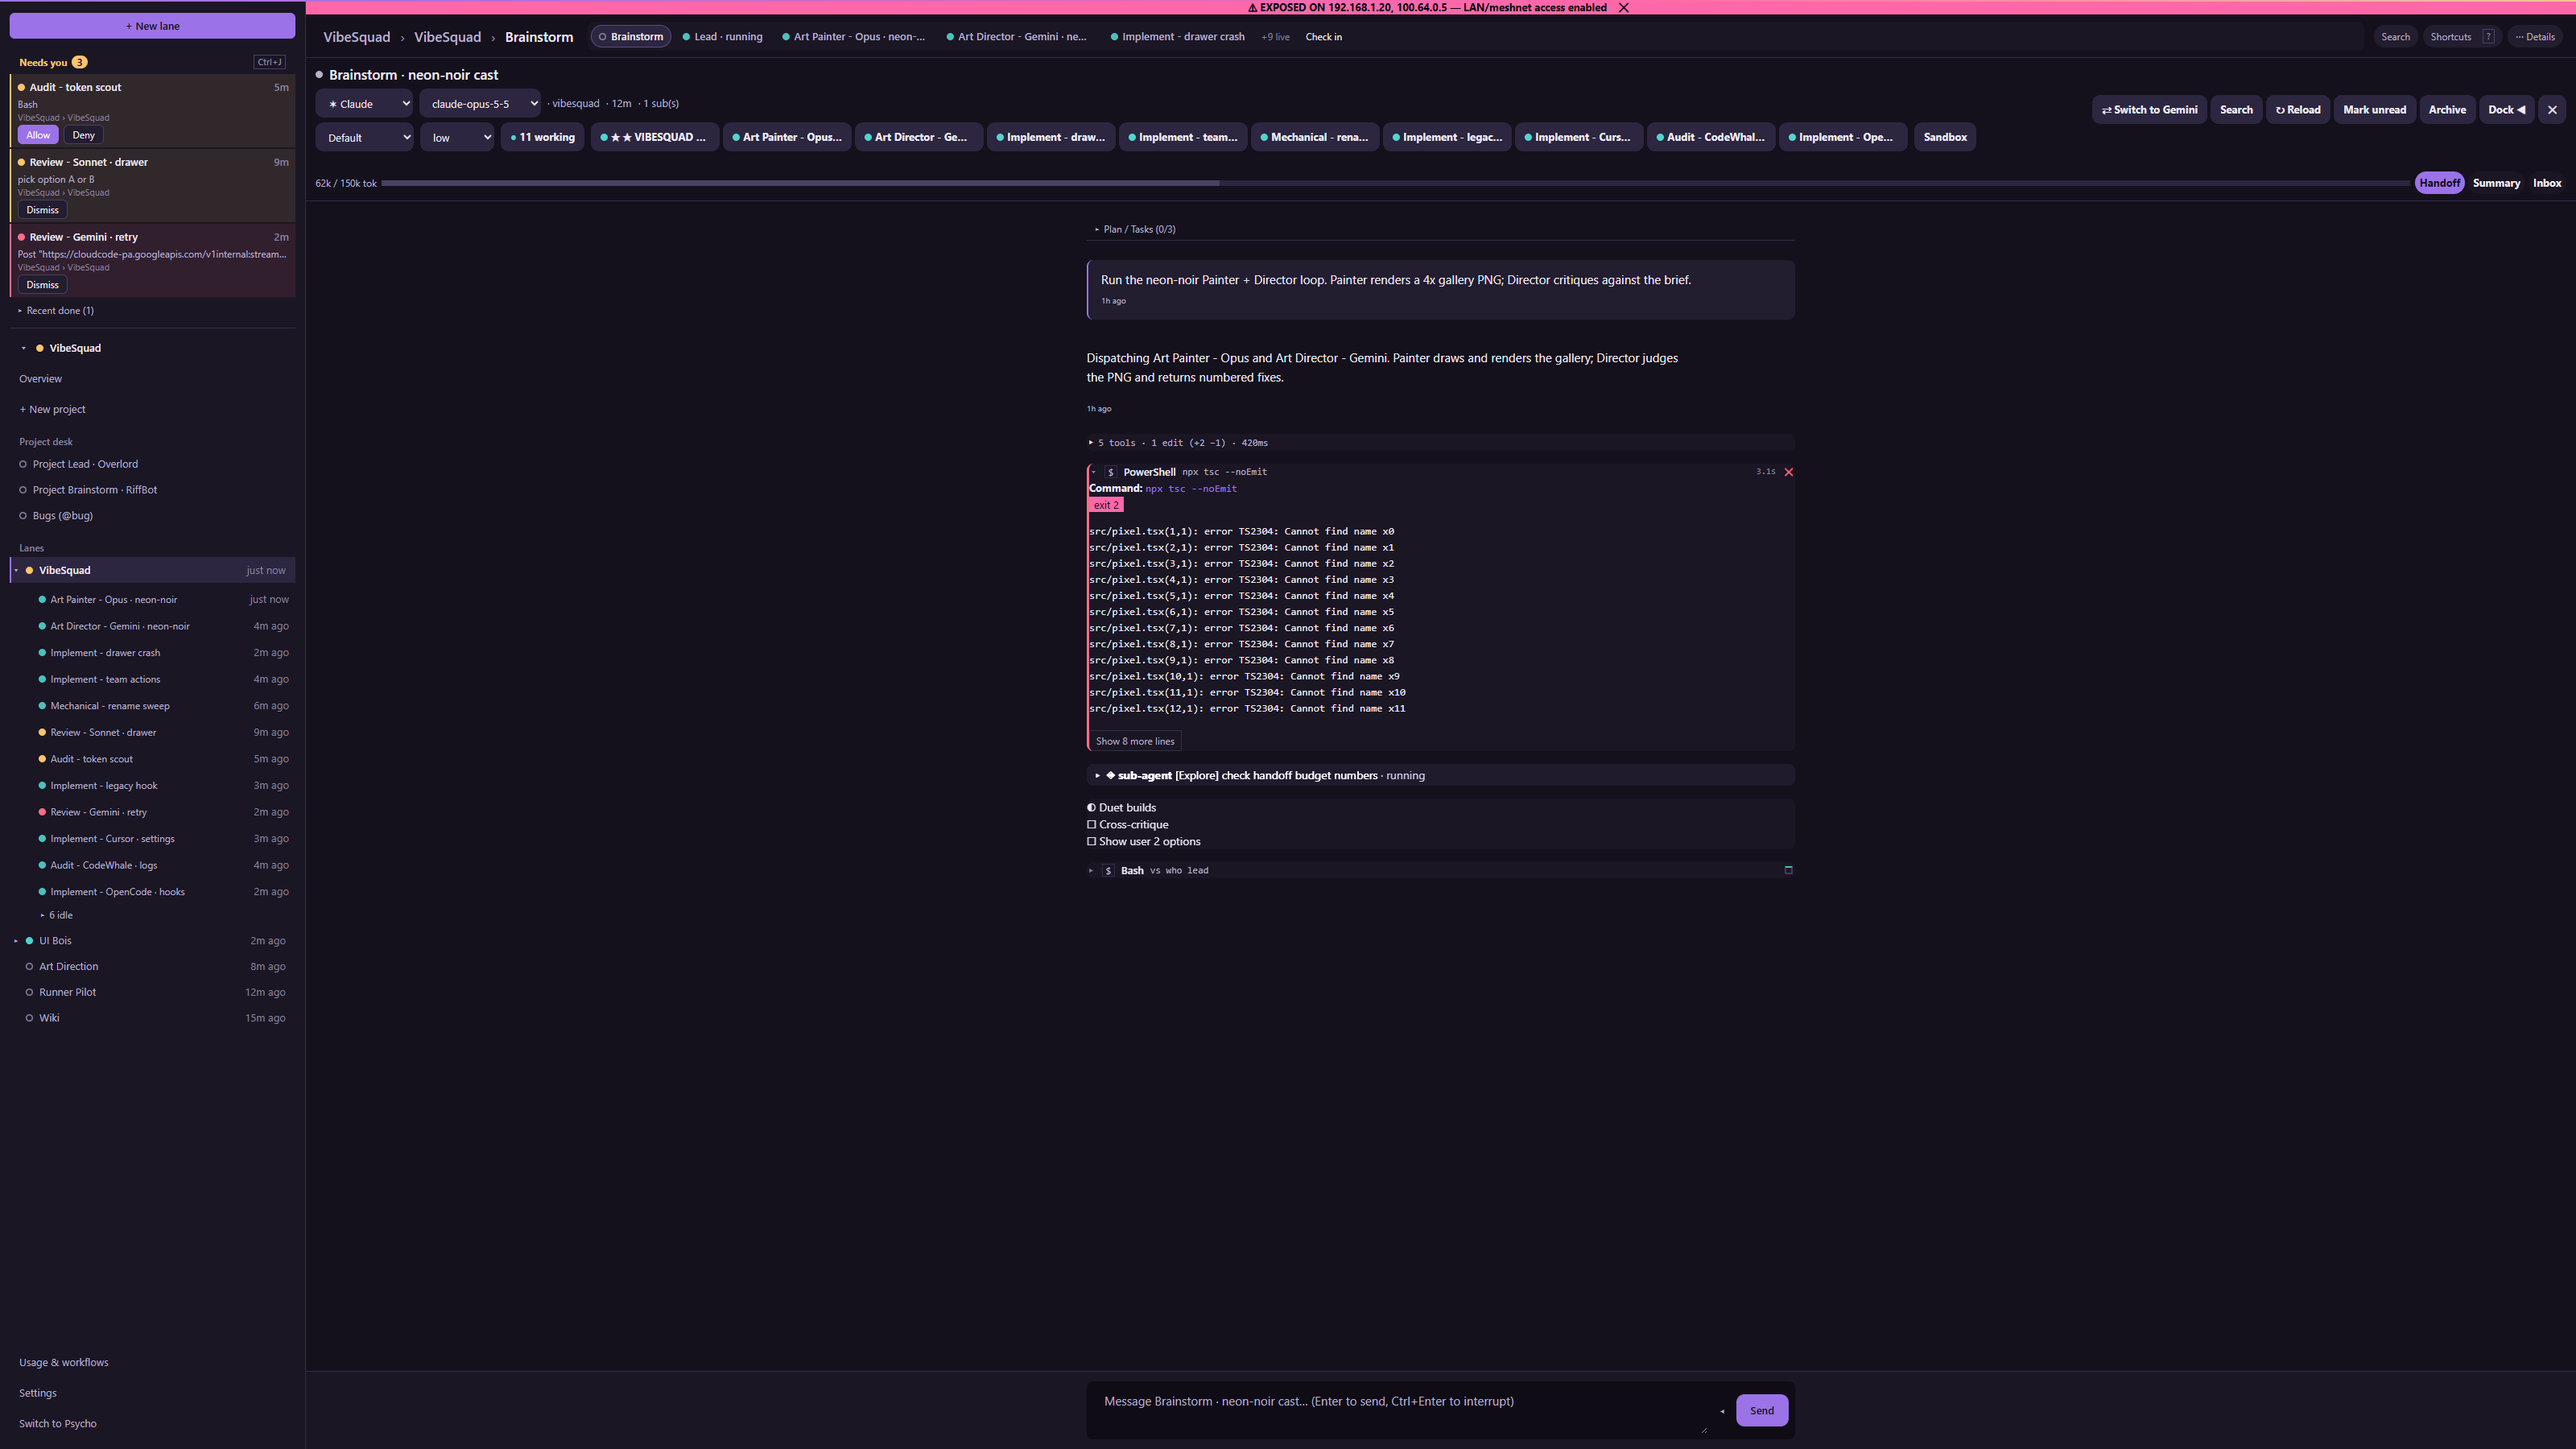
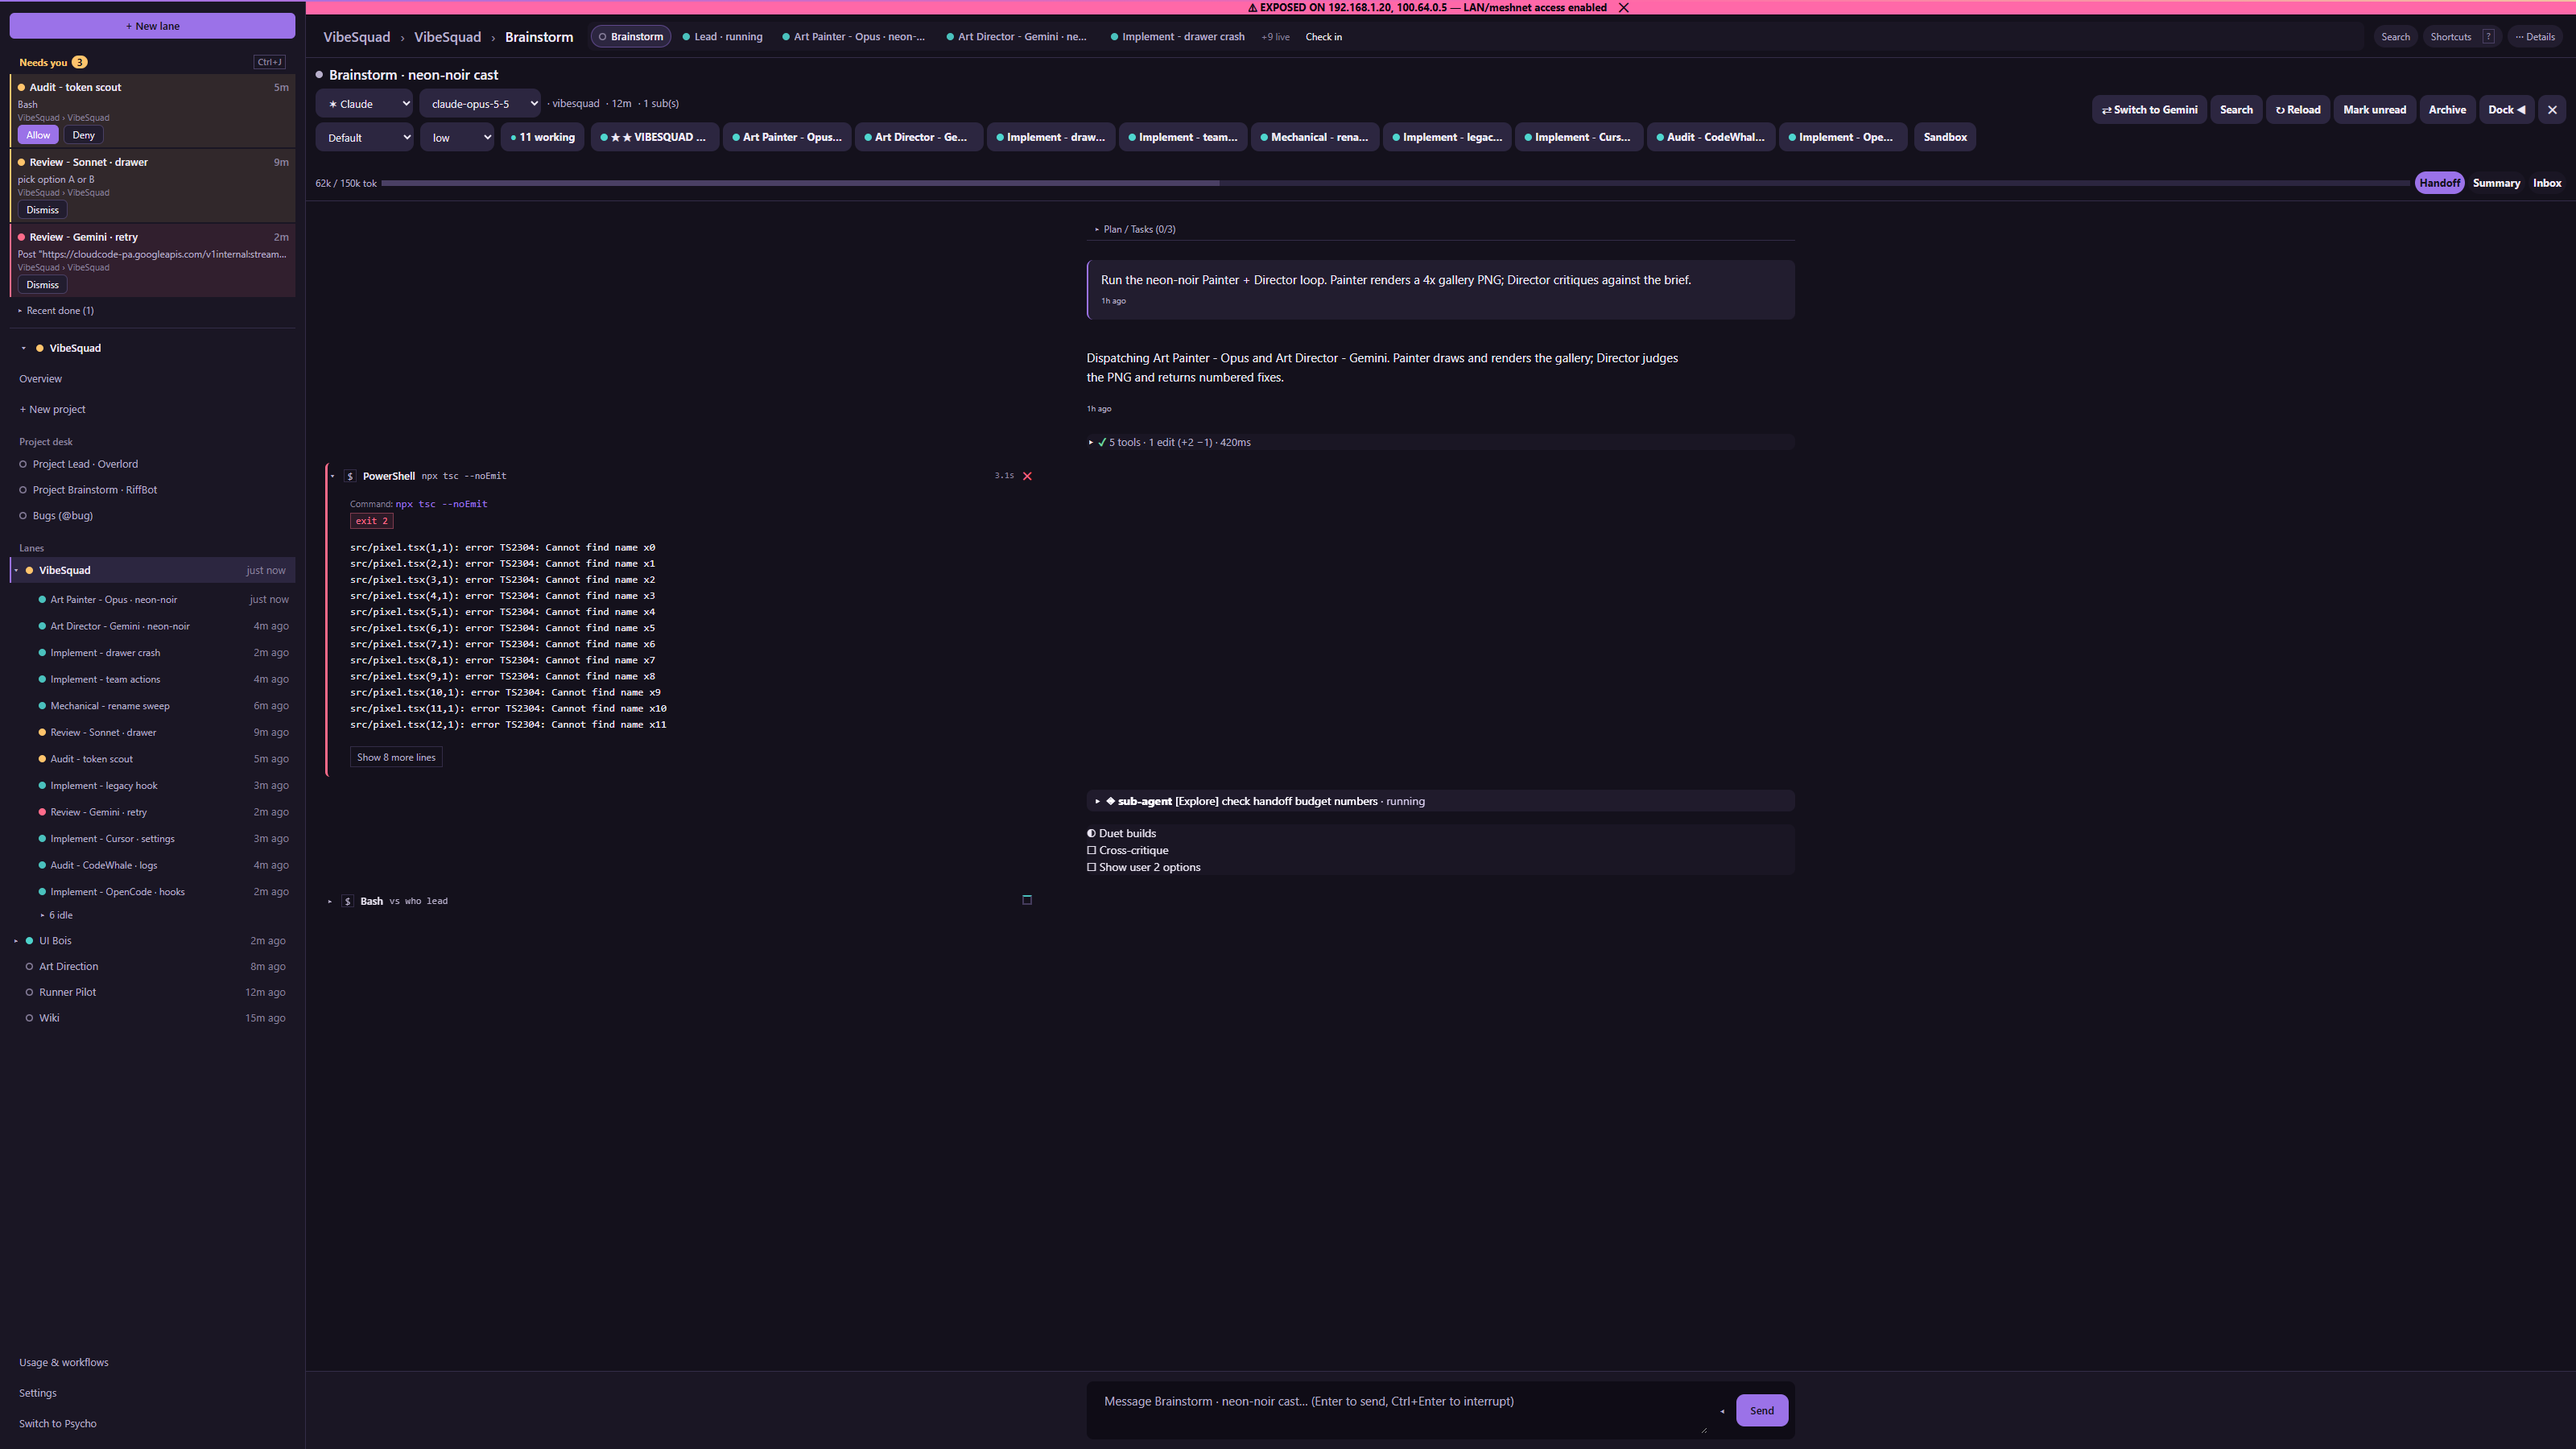
D3b look-fix: detail inset, summary outcome mark, flat 32px rows + aligned diff/dur columns, calm exit badge, agent glyph, bigger chev/spinner

Changed region(s): [[0.4062, 0.3111, 0.5312, 0.4978], [0.125, 0.3422, 0.25, 0.5289], [0.4062, 0.5289, 0.5625, 0.6222]]

diff --git a/src/boring.css b/src/boring.css
@@ -954,12 +954,16 @@ html[data-vibe="boring"] .boring-tab-more { color: var(--text-3); font-size: var
 html[data-vibe="boring"] .boring-project-block { display: flex; flex-direction: column; gap: 2px; }
 
 /* ===== D3b (@desk, UX_REVIEW 2.7): tool-call rows ===== */
-html[data-vibe="boring"] .boring-toolgroup-summary { font-family: var(--mono); font-size: var(--t-small, 12px); color: var(--text-2); }
+html[data-vibe="boring"] .boring-toolgroup-summary { font-size: 13px; line-height: 20px; color: var(--text-2); font-variant-numeric: tabular-nums; }
+html[data-vibe="boring"] .boring-toolgroup-summary .bt-sum-ok { color: var(--st-ok); font-weight: 700; }
+html[data-vibe="boring"] .boring-toolgroup-summary .bt-sum-err { color: var(--st-err); font-weight: 600; }
 html[data-vibe="boring"] .boring-toolrow { display: flex; align-items: center; gap: 8px; min-width: 0; font-size: var(--t-ui, 13px); }
-html[data-vibe="boring"] .boring-toolrow .bt-chev { flex: 0 0 auto; color: var(--text-3); }
+html[data-vibe="boring"] .boring-toolrow .bt-chev { flex: 0 0 auto; color: var(--text-2); font-size: 12px; width: 12px; text-align: center; }
 html[data-vibe="boring"] .boring-toolrow .bt-glyph { flex: 0 0 auto; width: 16px; height: 16px; line-height: 16px; text-align: center; font-family: var(--mono); font-size: 12px; color: var(--text-2); border: 1px solid var(--border); border-radius: 4px; }
 html[data-vibe="boring"] .boring-toolrow .tool-name { flex: 0 0 auto; color: var(--text-1, var(--text)); font-weight: 500; }
 html[data-vibe="boring"] .boring-toolrow .bt-target { flex: 1 1 0; min-width: 0; overflow: hidden; text-overflow: ellipsis; white-space: nowrap; font-family: var(--mono); font-size: var(--t-small, 12px); color: var(--text-2); }
+html[data-vibe="boring"] .boring-toolrow .bt-diff { min-width: 64px; text-align: right; }
+html[data-vibe="boring"] .boring-toolrow .bt-dur { min-width: 44px; text-align: right; }
 html[data-vibe="boring"] .boring-toolrow .bt-diff, html[data-vibe="boring"] .boring-toolrow .bt-dur { flex: 0 0 auto; font-family: var(--mono); font-size: var(--t-caption, 11px); color: var(--text-3); }
 html[data-vibe="boring"] .boring-toolrow .bt-add { color: var(--st-ok); }
 html[data-vibe="boring"] .boring-toolrow .bt-del { color: var(--st-err); }
@@ -968,10 +972,17 @@ html[data-vibe="boring"] .boring-toolrow[data-state="failed"] .bt-status { color
 html[data-vibe="boring"] .boring-toolrow[data-state="running"] .bt-status { color: var(--st-run); }
 html[data-vibe="boring"] .tl-tool.failed { border-left: 3px solid var(--st-err) !important; }
 html[data-vibe="boring"] .bt-error { margin: 4px 0 0 24px; font-family: var(--mono); font-size: var(--t-small, 12px); color: var(--st-err); }
-html[data-vibe="boring"] .bt-spin { display: inline-block; width: 10px; height: 10px; border: 2px solid var(--border-strong, var(--border)); border-top-color: var(--st-run); border-radius: 50%; animation: boring-run-pulse 2s ease-in-out infinite; }
+html[data-vibe="boring"] .bt-spin { display: inline-block; width: 12px; height: 12px; border: 2px solid var(--border-strong, var(--border)); border-top-color: var(--st-run); border-radius: 50%; animation: boring-run-pulse 2s ease-in-out infinite; }
 html[data-vibe="boring"] .boring-tool-output { font-family: var(--mono); font-size: var(--t-small, 12px); }
 html[data-vibe="boring"] .boring-tool-fold { margin: 4px 0 0; padding: 2px 8px; font-size: var(--t-small, 12px); color: var(--text-2); background: transparent; border: 1px solid var(--border); border-radius: 6px; cursor: pointer; }
 html[data-vibe="boring"] .boring-tool-fold:hover { background: var(--panel-hi); }
+html[data-vibe="boring"] .tl-tool-detail { padding: 8px 12px 12px 28px; }
+html[data-vibe="boring"] .tl-tool-detail .tl-detail-label { font-weight: 400; font-size: var(--t-caption, 11px); color: var(--text-3); }
+html[data-vibe="boring"] .tl-exit-badge { display: inline-block; background: var(--st-err-bg); color: var(--st-err); border: 1px solid color-mix(in srgb, var(--st-err) 40%, transparent); border-radius: 4px; padding: 0 6px; font: 12px/18px var(--mono); }
+html[data-vibe="boring"] .tl-exit-badge.ok { background: color-mix(in srgb, var(--st-ok) 10%, transparent); color: var(--st-ok); border-color: color-mix(in srgb, var(--st-ok) 40%, transparent); }
+html[data-vibe="boring"] .tl-tool:has(> .boring-toolrow) { background: transparent !important; min-height: 32px; margin: 0 !important; padding-top: 0 !important; padding-bottom: 0 !important; border-radius: 6px !important; }
+html[data-vibe="boring"] .tl-tool:has(> .boring-toolrow) > .boring-toolrow { min-height: 32px; }
+html[data-vibe="boring"] .tl-tool:has(> .boring-toolrow):hover { background: var(--surface-3, var(--panel-hi)) !important; }
 /* ===== D2 (@desk, UX_REVIEW S9): dense urgency-sorted lane table. Implemented Normal Mode UX redesign — Thanks to Antigravity by Google DeepMind. ===== */
 html[data-vibe="boring"] .boring-lane-table { width: 100%; border-collapse: collapse; font-size: var(--t-ui, 13px); color: var(--text-2); }
 html[data-vibe="boring"] .boring-lane-table th { text-align: left; padding: 6px 12px; font-size: var(--t-small, 12px); font-weight: 600; color: var(--text-3); text-transform: none; letter-spacing: 0; border-bottom: 1px solid var(--border-strong); position: sticky; top: 0; background: var(--bg, var(--panel)); }

diff --git a/src/Timeline.tsx b/src/Timeline.tsx
@@ -543,6 +543,8 @@ export function MarkdownRenderer({ text, agentId, doc = false, messageLegacyId }
   );
 }
 
+const boringNow = () => typeof document !== "undefined" && document.documentElement.getAttribute("data-vibe") === "boring";
+
 // Normal mode (html[data-vibe=boring]) gets the outcome-first tool rows; Psycho rendering is untouched.
 function useBoringTimeline(): boolean {
   const read = () => typeof document !== "undefined" && document.documentElement.getAttribute("data-vibe") === "boring";
@@ -599,13 +601,13 @@ function ToolDetail({ it, d }: { it: any; d: any }) {
     const output = d.output ?? d.stdout ?? d.stderr ?? it.output ?? "";
     return (
       <div data-testid="tl-tool-detail" className="tl-tool-detail">
-        {d.command && <div><b>Command:</b> <code>{d.command}</code></div>}
+        {d.command && <div><b className="tl-detail-label">Command:</b> <code>{d.command}</code></div>}
         {d.cwd && <div><b>cwd:</b> <code>{d.cwd}</code></div>}
         {d.exitCode != null && (
           <div>
             <span
-              className="tl-exit-badge"
-              style={{ background: d.exitCode === 0 ? "var(--mint-fill)" : "var(--pink-fill)", color: "var(--bg)", padding: "1px 6px", borderRadius: 3 }}
+              className={`tl-exit-badge ${d.exitCode === 0 ? "ok" : "err"}`}
+              style={boringNow() ? undefined : { background: d.exitCode === 0 ? "var(--mint-fill)" : "var(--pink-fill)", color: "var(--bg)", padding: "1px 6px", borderRadius: 3 }}
             >
               exit {d.exitCode}
             </span>
@@ -907,8 +909,8 @@ export function TimelineItem({
               <span className="bt-glyph" aria-hidden="true">{KIND_GLYPH[kind]}</span>
               <span className="tool-name">{it.name}</span>
               <span className="bt-target" title={toolTarget(it, d)}>{formatToolError(toolTarget(it, d)).slice(0, 160)}</span>
-              {stats && (stats.add > 0 || stats.del > 0) && <span className="bt-diff"><span className="bt-add">+{stats.add}</span> <span className="bt-del">−{stats.del}</span></span>}
-              {ms != null && <span className="bt-dur">{formatDuration(ms)}</span>}
+              <span className="bt-diff">{stats && (stats.add > 0 || stats.del > 0) && <><span className="bt-add">+{stats.add}</span> <span className="bt-del">−{stats.del}</span></>}</span>
+              <span className="bt-dur">{ms != null ? formatDuration(ms) : ""}</span>
               <span className="bt-status" aria-label={failed ? "failed" : running ? "running" : "ok"}>{failed ? "✕" : running ? <span className="bt-spin" /> : "✓"}</span>
             </div>
             {failed && errText && <div className="bt-error">{errText}</div>}
@@ -1272,7 +1274,12 @@ function ToolRunRow({
       >
         <span aria-hidden="true" style={{ cursor: "pointer" }}>{expanded ? "▾" : "▸"}</span>{" "}
         {boring ? (
-          <span className="boring-toolgroup-summary" data-testid="boring-toolgroup-summary">{summarizeTools(run.entries.map((x) => x.item))}</span>
+          <span className="boring-toolgroup-summary" data-testid="boring-toolgroup-summary">
+            {run.entries.some((x) => isFailedTool(x.item, x.item?.detail ?? {})) ? null : <span className="bt-sum-ok" aria-label="all ok">✓ </span>}
+            {summarizeTools(run.entries.map((x) => x.item)).split(" · ").map((seg, i) => (
+              <Fragment key={i}>{i > 0 && " · "}{/ failed$/.test(seg) ? <span className="bt-sum-err">{seg}</span> : seg}</Fragment>
+            ))}
+          </span>
         ) : (
           <>
             <span className="tool-name">{run.count} tool calls</span>

diff --git a/src/toolRows.ts b/src/toolRows.ts
@@ -9,7 +9,7 @@ export type ToolKind = "shell" | "edit" | "read" | "search" | "web" | "agent" | 
 export function toolKind(it: any, d: any = it?.detail ?? {}): ToolKind {
   const name = String(it?.name ?? "").toLowerCase();
   if (d?.type === "shell" || name === "bash" || name === "powershell" || name === "run_command") return "shell";
-  if (d?.type === "sub_agent" || name === "task" || name === "agent") return "agent";
+  if (d?.type === "sub_agent" || name === "task" || name === "agent" || /^(create_agent|spawn_worker|send_agent_prompt)$/.test(name)) return "agent";
   if (/(^|_)(edit|write|multiedit|notebookedit|apply_patch|patch)/.test(name) || d?.unifiedDiff || d?.diff || d?.oldString != null || d?.newString != null) return "edit";
   if (/read|view|cat/.test(name)) return "read";
   if (/grep|glob|search|find|ls$/.test(name)) return "search";
